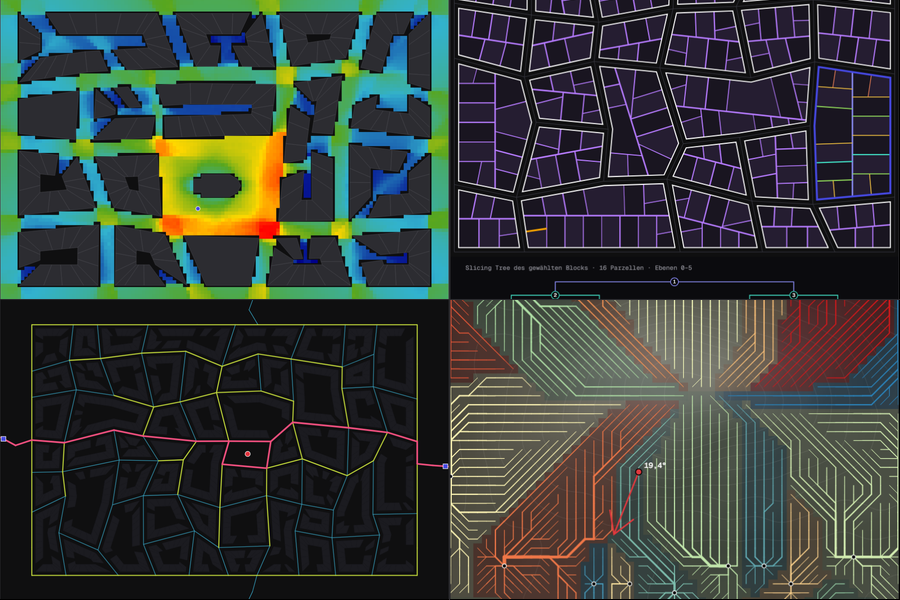
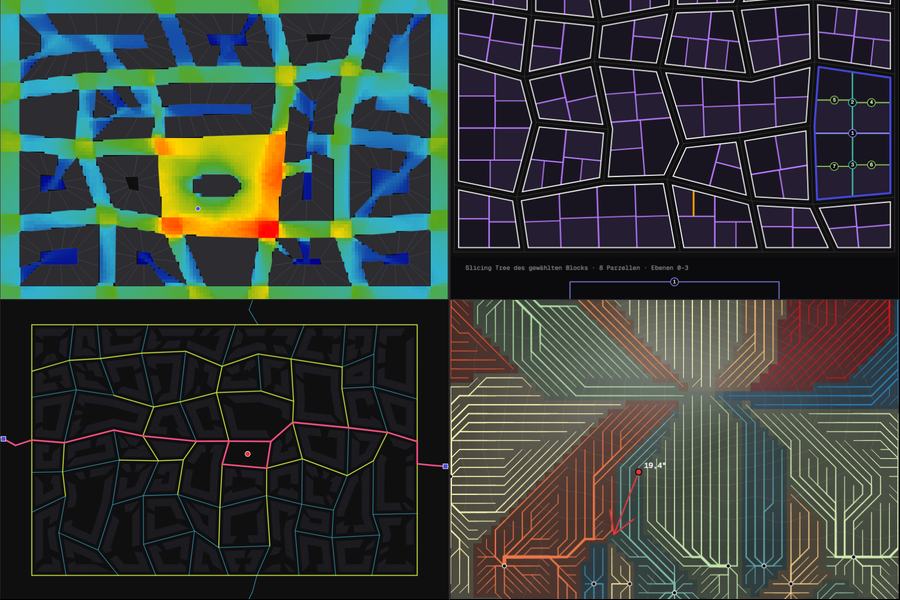
Katalog: METHODE.md (Methodenbeschreibung), Methode in den Quellcode-Paketen und auf der Übersicht; Kachelmosaik mit 20 Apps

diff --git a/bauen.py b/bauen.py
@@ -575,6 +575,8 @@ def katalog(vorlage, alt):
                     for f in sorted(dateien):
                         if f != "quellcode.zip" and ".local." not in f:
                             zf.write(os.path.join(wurzel, f), name + "/" + os.path.relpath(os.path.join(wurzel, f), basis).replace(os.sep, "/"))
+            if METHODEN.get("parametric-planning-catalogue"):            # Methode des Bereichs (23.11.2026)
+                zf.write(METHODEN["parametric-planning-catalogue"], "METHODE.md")
         ih = os.path.join(d, "index.html")
         h_ = versionieren(open(ih, encoding="utf-8").read(), d)       # ?v= gegen den Cloudflare-Cache (erst lesen, dann schreiben)
         open(ih, "w", encoding="utf-8").write(h_)
@@ -608,7 +610,9 @@ def katalog(vorlage, alt):
                   f'<p class="nur-en">The Parametric Planning Catalogue (2020) collects Grasshopper modules for integrated planning strategies – parcellation, visibility, street networks, water, terrain – developed at DecodingSpaces, ECL-AA and the Chair for Informatics in Architecture and Urbanism (InfAR) at Bauhaus-Universität Weimar. Here the modules run as standalone web apps in the browser: procedures, parameters and terms follow the Grasshopper files; every app names its original and can be downloaded as source code to develop further.</p>'
                   f'<p class="nur-de">{n_um} von {n_alle} Modulen sind umgesetzt; die übrigen stehen unten mit Begründung.</p><p class="nur-en">{n_um} of {n_alle} modules are done; the others are listed below with reasons.</p>'
                   f'<p><a href="{html.escape(K["url"])}">{zwei("Original: Parametric Planning Catalogue", "Original: Parametric Planning Catalogue")}</a> · '
-                  f'<a href="{html.escape(K["repo"])}">GitHub infar-buw/parametric-planning-catalogue</a> · {zwei("Lizenz des Katalogs: MIT", "Catalogue license: MIT")}</p></div></section>'
+                  f'<a href="{html.escape(K["repo"])}">GitHub infar-buw/parametric-planning-catalogue</a> · {zwei("Lizenz des Katalogs: MIT", "Catalogue license: MIT")}'
+                  + (f' · <a href="../../lab/methode/parametric-planning-catalogue/">{zwei("Methode", "Method")}</a>' if METHODEN.get("parametric-planning-catalogue") else "")
+                  + '</p></div></section>'
                   f'<section class="ueber" id="bestand"><div><h2>{zwei("Alle Module", "All modules")}</h2></div><div><ul class="bestand">{"".join(zeilen)}</ul></div></section>')
     seite(vorlage, os.path.join(ziel, "index.html"),
           FILTER.format(id="katalog", folge='<option value="folge" data-t="reihenfolge">Reihenfolge</option>', daten=json.dumps({"projekte": karten}, ensure_ascii=False)) + "\n" + einleitung,

diff --git a/katalog/METHODE.md b/katalog/METHODE.md
@@ -1,0 +1,70 @@
+# Methode: Parametric Planning Catalogue
+
+Prof. Dr. Reinhard König in Zusammenarbeit mit Claude von Anthropic · Stand 23.11.2026 · Lizenz CC BY 4.0
+
+**App:** https://entwurfsforschung.de/lab/parametric-planning-catalogue/ · **Quellcode:** `katalog/` im Repo entwurfsforschung, je App `quellcode.zip` (enthält `katalog/<app>/`, `katalog/_gemeinsam/`, `simulationen/_gemeinsam/`) · **Einstieg für Agenten:** `katalog/REZEPT.md`, `katalog/bestand.json`, dann je App `AGENTS.md` und `QUELLE.md`
+
+## Frage
+
+Die Grasshopper-Module des Parametric Planning Catalogue (2020) werden einzeln als Web-Apps neu umgesetzt: fachlich treu zu Verfahren, Parametern und Begriffen der .gh-Dateien, lauffähig im Browser ohne Rhino, offen weiterentwickelbar. Die Sammlung zeigt die Bausteine integrierter Planung – Sichtbarkeit, Parzellierung, Straßennetze, Wasser, Gelände, Nutzung, Optimierung – so, dass man jedes Verfahren Schritt für Schritt ablaufen sehen und mit den Reglern des Originals untersuchen kann.
+
+## Vorbild und Quellen
+
+- **Katalog:** Parametric Planning Catalogue, DecodingSpaces · ECL-AA · InfAR (Professur Informatik in der Architektur und Urbanistik), Bauhaus-Universität Weimar, 2020; https://infar-buw.github.io/parametric-planning-catalogue/, Quellen https://github.com/infar-buw/parametric-planning-catalogue, **MIT-Lizenz** (Copyright (c) 2020 infar-buw). Autorinnen und Autoren je Modul (Martin Bielik, Ekaterina Fuchkina, Martin Dennemark, Ondřej Veselý, Reinhard König) in `bestand.json` und QUELLE.md.
+- **Komponenten:** DeCodingSpaces Toolbox, https://github.com/Bauhaus-InfAU/decoding-spaces-toolbox (**GPL-3.0**; 2026 aus den Binärdateien 2021/2023 neu aufgebaut, mit Doku `docs/measures.md`, `docs/visibility.md`, `docs/migration.md`, `docs/review-2026-11.md`, `docs/research/legacy-generation.md`), Grafit, https://github.com/Bauhaus-InfAU/Grafit (**MIT**). Die Apps lesen dort Definitionen, Formeln, Voreinstellungen und Randfälle ab und setzen sie in eigenem Code um – **kein Code aus der GPL-Toolbox übernommen**; jede QUELLE.md nennt die genauen Dateien unter „Abgleich mit dem Quelltext“.
+- **Weitere Vorbilder** je App, z. B. polysplit (G. Rimša, MIT) für die Parzellierung nach Fläche, Gismo (Dj. Spasić, GPL-3, nur Verfahren) für den Regenwasserabfluss als Vektor, SpiderWeb (R. Schaffranek) für den Gittergraphen der Serpentinen, EPANET (L. Rossman, US EPA, MIT) und das Gradientenverfahren von Todini & Pilati (1988) für die Rohrnetze; Isovist-Literatur: Benedikt (1979, https://doi.org/10.1068/b060047), Batty (2001, https://doi.org/10.1068/b2725), Turner et al. (2001, https://doi.org/10.1068/b2684).
+- **Bewusst anders:** Beispielszenen statt Rhino-Geometrie, feste Saat, ein „Schritt“ als Rechenschritt, behobene Programmfehler des Originals (je App unter „Bewusst geändert“), wo die Toolbox 2026 alte Fehler dokumentiert (z. B. Standardabweichung des Isovists als Summe absoluter Abweichungen), rechnen die Apps nach der korrigierten Definition und sagen das.
+
+## Darstellung
+
+Ebene Geometrie in Metern (y nach unten), von oben gesehen: Polygone (Gebäude, Blöcke, Parzellen), Straßennetze als Segmente mit dualem Segmentgraph in zwei Fahrtrichtungen (`Geo.richtungsGraph`, Kosten nach DeCodingSpaces 2020 `kL·d/l_max + kW·θ/180°` oder Toolbox v2), Strahlen für 2D-Isovisten, Höhenraster für Gelände (bilinear, Schummerung und Höhenlinien), Rohrnetze als Knoten-Kanten-Graph mit Hydraulik in SI-Einheiten. Modell (`modell.js`, ohne DOM) und Oberfläche (`app.js` mit dem Rahmen `simulationen/_gemeinsam/sim.js`) sind getrennt; gemeinsame Bausteine in `katalog/_gemeinsam/` (`geo.js`, `szenen.js`, `karte.js`).
+
+## Korpus
+
+Kein Korpus echter Städte. Maßstab sind die Module selbst: die .gh-Dateien (mit der GH_IO.dll von Rhino 8 ohne Rhino in XML gewandelt; Schieberegler mit Wert und Bereich, Wertelisten, Notizen, Verdrahtung, Cluster, C#-/Python-Skripte), Beschreibungen und GIFs des Katalogs, der Quelltext der Toolbox und Grafit. Beispieldaten des Katalogs, die als Prüfstein dienen, liegen bei den Tests (EPANET-Netze `Testnet.inp`, `hydroanalysis1.inp`, MIT). Die Szenen (Stadt mit Straßenraster, Blöcken, Gebäuden, Platz und Kirche; Gelände mit Berg und Tälern) erzeugt `szenen.js` mit fester Saat – vergleichbar mit den Rhino-Dateien, aber nicht gleich. Bestand (`bestand.json`, 23.11.2026): 27 Module, 20 umgesetzt, 4 nächste Runde, 3 nicht umgesetzt (mit Begründung).
+
+## Generator
+
+Je Modul das Verfahren der .gh-Datei, als Schritte abspielbar:
+
+- **Sichtbarkeit:** Isovist von einem Punkt, als Feld auf einem Analysegitter (Flutfüllung vom Füllpunkt), entlang eines Weges mit Verlaufsdiagramm, Sichtbarkeit von Objekten (Strahltreffer je Kante/Gebäude); 17 Kenngrößen nach den Definitionen der Toolbox v2.
+- **Parzellierung:** Slicing Tree nach `STreeExtended` (Straßenkante, Teilungsverhältnis, Rücken an Rücken), Voronoi aus Randpunkten mit Network Smooth (Ketten, Anker), Teilung nach Fläche mit kürzestem Schnitt (polysplit), Kantenversatz nach Betweenness, Grundstücke aus dem Straßennetz (kleinste Zyklen) mit Neigungsfilter.
+- **Netze:** kürzester Weg (einfach, Dijkstra, Floyd–Warshall) im gerichteten Segmentgraphen, Straßenhierarchie aus gewichteter Betweenness (Brandes, Gewichte für Stadteingänge und Points of Interest), genetische Optimierung von Straßennetzen (Instruktionsbaum als Chromosom, zwei Ziele Länge und Closeness, SPEA2-artige Auswahl).
+- **Gelände und Wasser:** Serpentinen als kürzester Weg mit Steilheitskosten auf einem 8er-Gittergraphen, Ringstraßen aus bewerteten Zellen bis zur Sollfläche, Regenwasserabfluss als D8-Raster mit Einzugsgebieten und als Fließlinien, Betroffenheit von Straßen bei Starkregen, Wasserleitung und Wassernetz mit Rohrnetzberechnung (Hazen–Williams, Gradientenverfahren) und automatischer Rohrdimensionierung.
+- **Nutzung:** iterative Verteilung von Wohnen, Gewerbe, Industrie nach Profilen aus Zentralität, Erreichbarkeit, wahrgenommener Entfernung und gegenseitiger Anziehung (Roulette-Rad, Dichtegrenze).
+
+Zufall nur mit Saat (`simulationen/_gemeinsam/zufall.js`); Regler und Klick rechnen wie in Grasshopper sofort zu Ende, „Zurück“ und „Start“ zeigen den Ablauf ab Schritt 0.
+
+## Prüfer
+
+Treue zum Modul und erwartetes Verhalten, nicht Echtheit gegen reale Städte:
+
+- **`node --test`** je App und für `_gemeinsam/`: nachgerechnete Beispiele (Isovist im leeren Raum = Kreis, Raum 20 × 20 m, Verdeckung hinter einer Wand; T-Kreuzung mit beiden Kostenformeln; Rohr, parallele Rohre und Masche gegen Handrechnung bzw. Hardy-Cross), Grenzfälle, gleiche Saat → gleicher Lauf, ein Verhalten aus der Katalogbeschreibung (z. B. jede Parzelle behält eine Straßenkante, Eingangssegmente werden Hauptstraßen, steile Straßen quer zum Hang sind stark betroffen). Stand 23.11.2026: 20 Apps mit 277 Tests und 22 gemeinsame Tests, alle grün (1 Test übersprungen, siehe „Offen“).
+- **Gegenprobe an Originaldaten:** Die Rohrdurchmesser aus der Dimensionierungsschleife des Originals (`hydroanalysis1.inp`, 708 Knoten) ergeben im eigenen Löser höchstens 1,49 m/s bei der Grenze 1,5 m/s und Drücke von 2,5 bis 15,9 bar – genau der Bereich, den das Modul anstrebt.
+- **`pruef_ausdruck`** in `app.json` (fachliche Kennzahl nach den Vorschauschritten) und **`katalog/pruefe_apps.py`** (Browser, hell/dunkel, 1440/390 px, Start/Pause/Schritt/Zurück, Pflichtlinks, kein waagerechtes Scrollen, Kachelbilder); **`pruefe.py`** prüft den Bau (Pflichtdateien, Link zum Katalogeintrag, Quellcode-Paket, Begründung jedes nicht umgesetzten Moduls). Bildschirmfotos werden angesehen.
+
+## Handschrift
+
+Gar nicht im Sinne eines Stils: Die Module sind Analyse- und Planungswerkzeuge. Was sie an Haltung tragen, steckt in den Voreinstellungen der Autorinnen und Autoren (Gewichte, Schwellen, Profile) und bleibt sichtbar und veränderbar. Die Entscheidung, welche Variante taugt, bleibt beim Menschen.
+
+## Was trägt
+
+- **.gh ohne Rhino lesen:** GH_IO.dll → `GH_Archive.Serialize_Xml()`, dann kleine Auszugsskripte für Regler, Verdrahtung, Cluster und Skripte (`katalog/REZEPT.md`).
+- **Gemeinsame Bausteine:** `Geo.isovist`/`isovistMasse`, `Geo.richtungsGraph` mit `segmentBetweennessVon`/`segmentClosenessVon`, `Geo.voronoi`, `Szenen.stadt`/`gelaende`, `Karte.gelaende` – getestet in `_gemeinsam/test/`.
+- **Quelltext als Schiedsrichter:** Vermutungen aus Runde 1 (ungerichteter Graph, eigene Kostenformel, Isovist-Momente, Slicing-Tree-Regeln, Network Smooth) wurden am Toolbox-Quelltext geprüft und korrigiert; die Apps nennen beide Definitionen, wo das Original von der heutigen abweicht.
+- **Ein Schritt = ein Rechenschritt** macht Verfahren sichtbar (Suchfront, wachsende Betweenness, Schnitt für Schnitt, Iteration des Gradientenverfahrens).
+
+## Stolperfallen
+
+- **Lizenzen:** Katalog MIT, Toolbox GPL-3, Gismo GPL-3, Magnetizing Floor Plan Generator ohne Lizenz → nur Verfahren übernehmen, keinen Code; Quellen mit Lizenz nennen.
+- **Verlorene Fassungen:** Der Code der Komponenten von 2020 ist zum Teil verloren; die Toolbox 2026 rechnet absichtlich anders. Lösung: nach Doku der alten Fassung (Migrations- und Review-Notizen) rechnen, Abweichungen benennen.
+- **Fehler in den .gh-Dateien** (vertauschte Regler, Teilen durch null, nicht laufendes Maximum in Flow Paths) werden behoben und benannt.
+- **Gemeinsamer Weg durch Gebäude:** Der erste gemeinsame Szenen-Pfad lief durch Gebäude; Wege bilden die Apps jetzt aus dem Straßennetz.
+- **Parallele Agenten im selben Worktree:** gemeinsame Dateien nur mit Edit an der eigenen Stelle ändern, danach alle betroffenen Tests.
+
+## Offen
+
+- Nächste Runde des Katalogs: Isovist 3D, Wind Direction, Building Generation mit Placement on Parcel, Waterbased Street Growth.
+- DeCodingSpaces Lab (https://toolbox.decodingspaces.net/#lab) als eigener Abschnitt: 23 Einträge gesichtet, Umsetzung der tragfähigen Modelle folgt.
+- `hydraulik.js` und die Straßenhierarchie-Funktionen stehen doppelt in zwei Apps und sollen nach `_gemeinsam/`; der Test mit `hydroanalysis1.inp` in `wasserleitung` wird übersprungen, weil die Datei nur in `wassernetz/test/` liegt.
+- Ungeklärt ohne den alten Quelltext: Bedeutung von „d“ in der Legacy-Kostenformel, Glättung in Flow Paths, PISA-Selektor der Netzoptimierung, Faktor 0.00005787 im Wassernetz.
